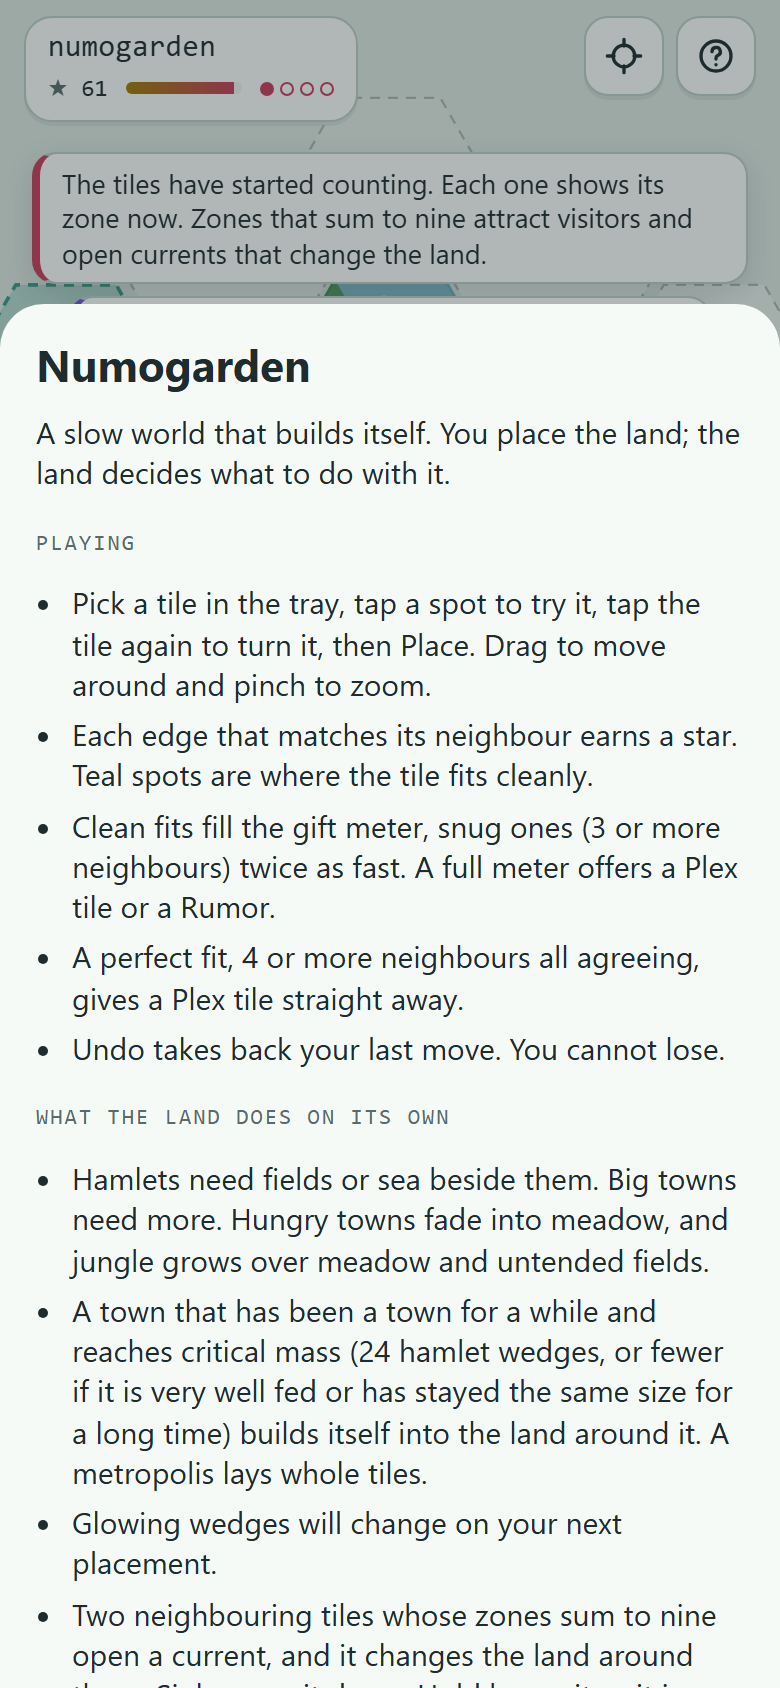
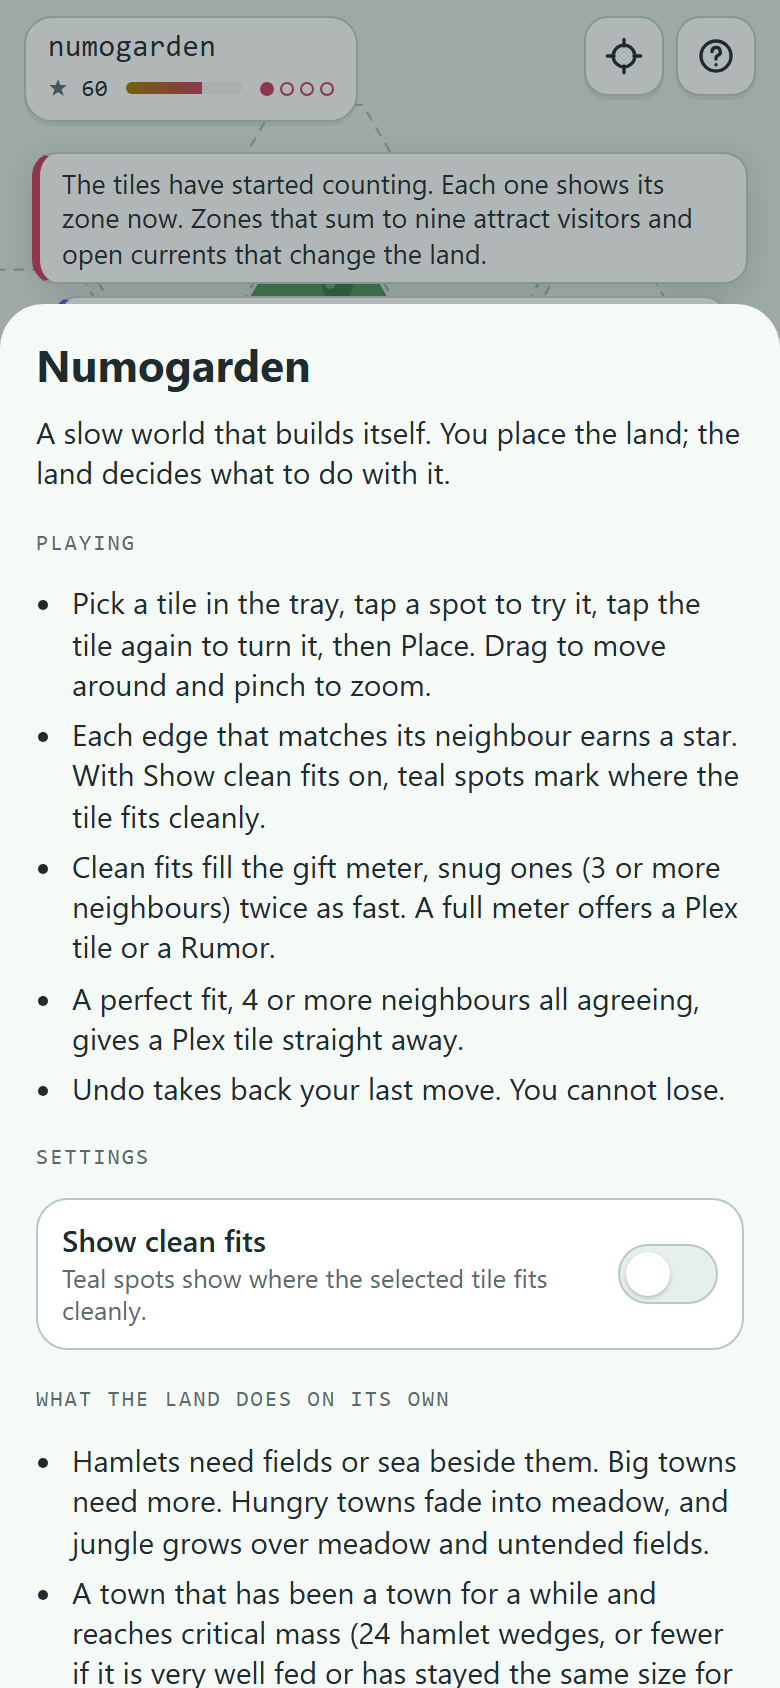
Make the clean-fit highlight a setting, off by default
Teal clean-fit spots and the hint's "Teal spots fit cleanly" now show
only with Show clean fits on, a switch in the info sheet. Settings are
saved per device under numogarden-prefs, apart from the world, so New
world keeps them. Renderer only; src/sim.js is unchanged. Phone check
passes; the switch is off by default and survives reload and New world.

Claude-Session: https://claude.ai/code/session_01Rqpdc12HTNNbWHYvCNXX71

diff --git a/artifact/numogarden.html b/artifact/numogarden.html
@@ -151,7 +151,15 @@ button:focus-visible { outline: 2px solid var(--plex); outline-offset: 2px; }
 .row { display: flex; gap: 8px; flex-wrap: wrap; }
 .row .btn { flex: 1 1 140px; }
 .credit { font-family: var(--mono); font-size: 12px; color: var(--muted); }
-@media (prefers-reduced-motion: reduce) { .gift-chip, .toast, .sheet { animation: none; } .slot { transition: none; } }
+/* a setting is one tappable row: words on the left, a switch on the right */
+.setting { width: 100%; min-height: 56px; display: flex; align-items: center; justify-content: space-between; gap: 14px; text-align: left; border: 1.5px solid var(--rule); background: #FFFFFF; border-radius: 16px; padding: 10px 12px; cursor: pointer; }
+.setting b { display: block; font-size: 15px; font-weight: 600; }
+.setting .note { display: block; line-height: 1.3; }
+.switch { flex: none; position: relative; width: 50px; height: 30px; box-sizing: border-box; border-radius: 999px; border: 1px solid var(--rule); background: var(--well); transition: background .2s, border-color .2s; }
+.switch::after { content: ''; position: absolute; top: 3px; left: 3px; width: 22px; height: 22px; border-radius: 50%; background: #FFFFFF; box-shadow: 0 1px 2px rgba(30, 43, 47, .25); transition: transform .2s; }
+.setting[aria-checked="true"] .switch { background: var(--fit); border-color: var(--fit); }
+.setting[aria-checked="true"] .switch::after { transform: translateX(20px); }
+@media (prefers-reduced-motion: reduce) { .gift-chip, .toast, .sheet { animation: none; } .slot, .switch, .switch::after { transition: none; } }
 </style>
 
 <div id="app">
@@ -1057,6 +1065,11 @@ const CURRENT_TXT = {
 };
 const ROOFS = ['#E0705A', '#5E8FB0', '#D9A13B', '#C9607A'];
 const STORE = 'numogarden-v1';
+/* settings belong to the device, not the world, so they live apart from the save and survive New world */
+const PREFS = 'numogarden-prefs';
+const prefs = { cleanFits: false };
+try { const p = JSON.parse(localStorage.getItem(PREFS) || 'null'); if (p && typeof p.cleanFits === 'boolean') prefs.cleanFits = p.cleanFits; } catch (e) { /* storage may be unavailable */ }
+function savePrefs() { try { localStorage.setItem(PREFS, JSON.stringify(prefs)); } catch (e) { /* storage may be unavailable */ } }
 
 const $ = id => document.getElementById(id);
 const cv = $('board'), ctx = cv.getContext('2d');
@@ -1285,7 +1298,7 @@ function updateHint() {
       if (st.kind !== 'x') txt += '. Tap the tile to turn it.';
     }
   } else if (ui.mode === 'ferry') txt = 'Ferry: put this tile on any spot within 3 hexes of land.';
-  else txt = state.turn < 8 ? 'Tap a glowing spot to try the tile there. Teal spots fit cleanly.' : 'Pick a spot. Teal spots fit cleanly.';
+  else txt = (state.turn < 8 ? 'Tap a glowing spot to try the tile there.' : 'Pick a spot.') + (prefs.cleanFits ? ' Teal spots fit cleanly.' : '');
   hintEl.textContent = txt;
 }
 
@@ -1408,11 +1421,16 @@ function openInfo() {
     <h3>Playing</h3>
     <ul>
       <li>Pick a tile in the tray, tap a spot to try it, tap the tile again to turn it, then Place. Drag to move around and pinch to zoom.</li>
-      <li>Each edge that matches its neighbour earns a star. Teal spots are where the tile fits cleanly.</li>
+      <li>Each edge that matches its neighbour earns a star. With Show clean fits on, teal spots mark where the tile fits cleanly.</li>
       <li>Clean fits fill the gift meter, snug ones (3 or more neighbours) twice as fast. A full meter offers a Plex tile or a Rumor.</li>
       <li>A perfect fit, 4 or more neighbours all agreeing, gives a Plex tile straight away.</li>
       <li>Undo takes back your last move. You cannot lose.</li>
     </ul>
+    <h3>Settings</h3>
+    <button type="button" class="setting" id="cleanSw" role="switch" aria-checked="${prefs.cleanFits}" aria-labelledby="cleanLbl" aria-describedby="cleanNote">
+      <span><b id="cleanLbl">Show clean fits</b><span class="note" id="cleanNote">Teal spots show where the selected tile fits cleanly.</span></span>
+      <span class="switch" aria-hidden="true"></span>
+    </button>
     <h3>What the land does on its own</h3>
     <ul>
       <li>Hamlets need fields or sea beside them. Big towns need more. Hungry towns fade into meadow, and jungle grows over meadow and untended fields.</li>
@@ -1437,6 +1455,12 @@ function openInfo() {
     </div>
     <p class="credit">Built by SVL with Claude, October 2026. Demon names, zone pairs and descriptions come from <a href="https://claude.ai/artifact/1u4CmPQFRszxxz2beVf3Ae" target="_blank" rel="noopener">Numogram Lab</a>.</p>`);
   $('closeS').addEventListener('click', closeSheet);
+  const sw = $('cleanSw');
+  sw.addEventListener('click', () => {
+    prefs.cleanFits = !prefs.cleanFits; savePrefs();
+    sw.setAttribute('aria-checked', String(prefs.cleanFits));
+    updateHint(); ui.dirty = true;
+  });
   const nw = $('newW');
   nw.addEventListener('click', () => {
     if (nw.dataset.armed) { closeSheet(); newWorld(); return; }
@@ -1651,7 +1675,7 @@ function drawValid() {
   for (const v of ui.valid) {
     if (ui.ghost && ui.ghost.q === v.q && ui.ghost.r === v.r) continue;
     const c = hexCenter(v.q, v.r); setT(c[0], c[1]);
-    const clean = v.n >= 2 && v.m === v.n;
+    const clean = prefs.cleanFits && v.n >= 2 && v.m === v.n; // teal only when the player asked for it
     hexPath(0.93);
     ctx.fillStyle = clean ? 'rgba(31,156,132,.22)' : v.m > 0 ? 'rgba(255,255,255,.3)' : 'rgba(255,255,255,.14)';
     ctx.fill();
@@ -1919,7 +1943,7 @@ function start(data) {
   try { window.claude && window.claude.hot && window.claude.hot.snapshot && window.claude.hot.snapshot(() => ({ state: JSON.stringify(state), cam })); } catch (e) { /* not in a viewer */ }
   if (document.fonts && document.fonts.ready) document.fonts.ready.then(() => { renderTray(); ui.dirty = true; });
   requestAnimationFrame(loop);
-  window.__numo = { get state() { return state; }, get cam() { return cam; }, get ui() { return ui; }, toScreen, hexCenter };
+  window.__numo = { get state() { return state; }, get cam() { return cam; }, get ui() { return ui; }, prefs, toScreen, hexCenter };
 }
 if (window.claude && window.claude.hot && window.claude.hot.ready) window.claude.hot.ready(start);
 else start((window.claude && window.claude.hot && window.claude.hot.data) || {});

diff --git a/docs/index.html b/docs/index.html
@@ -151,7 +151,15 @@ button:focus-visible { outline: 2px solid var(--plex); outline-offset: 2px; }
 .row { display: flex; gap: 8px; flex-wrap: wrap; }
 .row .btn { flex: 1 1 140px; }
 .credit { font-family: var(--mono); font-size: 12px; color: var(--muted); }
-@media (prefers-reduced-motion: reduce) { .gift-chip, .toast, .sheet { animation: none; } .slot { transition: none; } }
+/* a setting is one tappable row: words on the left, a switch on the right */
+.setting { width: 100%; min-height: 56px; display: flex; align-items: center; justify-content: space-between; gap: 14px; text-align: left; border: 1.5px solid var(--rule); background: #FFFFFF; border-radius: 16px; padding: 10px 12px; cursor: pointer; }
+.setting b { display: block; font-size: 15px; font-weight: 600; }
+.setting .note { display: block; line-height: 1.3; }
+.switch { flex: none; position: relative; width: 50px; height: 30px; box-sizing: border-box; border-radius: 999px; border: 1px solid var(--rule); background: var(--well); transition: background .2s, border-color .2s; }
+.switch::after { content: ''; position: absolute; top: 3px; left: 3px; width: 22px; height: 22px; border-radius: 50%; background: #FFFFFF; box-shadow: 0 1px 2px rgba(30, 43, 47, .25); transition: transform .2s; }
+.setting[aria-checked="true"] .switch { background: var(--fit); border-color: var(--fit); }
+.setting[aria-checked="true"] .switch::after { transform: translateX(20px); }
+@media (prefers-reduced-motion: reduce) { .gift-chip, .toast, .sheet { animation: none; } .slot, .switch, .switch::after { transition: none; } }
 </style>
 
 <div id="app">
@@ -1057,6 +1065,11 @@ const CURRENT_TXT = {
 };
 const ROOFS = ['#E0705A', '#5E8FB0', '#D9A13B', '#C9607A'];
 const STORE = 'numogarden-v1';
+/* settings belong to the device, not the world, so they live apart from the save and survive New world */
+const PREFS = 'numogarden-prefs';
+const prefs = { cleanFits: false };
+try { const p = JSON.parse(localStorage.getItem(PREFS) || 'null'); if (p && typeof p.cleanFits === 'boolean') prefs.cleanFits = p.cleanFits; } catch (e) { /* storage may be unavailable */ }
+function savePrefs() { try { localStorage.setItem(PREFS, JSON.stringify(prefs)); } catch (e) { /* storage may be unavailable */ } }
 
 const $ = id => document.getElementById(id);
 const cv = $('board'), ctx = cv.getContext('2d');
@@ -1285,7 +1298,7 @@ function updateHint() {
       if (st.kind !== 'x') txt += '. Tap the tile to turn it.';
     }
   } else if (ui.mode === 'ferry') txt = 'Ferry: put this tile on any spot within 3 hexes of land.';
-  else txt = state.turn < 8 ? 'Tap a glowing spot to try the tile there. Teal spots fit cleanly.' : 'Pick a spot. Teal spots fit cleanly.';
+  else txt = (state.turn < 8 ? 'Tap a glowing spot to try the tile there.' : 'Pick a spot.') + (prefs.cleanFits ? ' Teal spots fit cleanly.' : '');
   hintEl.textContent = txt;
 }
 
@@ -1408,11 +1421,16 @@ function openInfo() {
     <h3>Playing</h3>
     <ul>
       <li>Pick a tile in the tray, tap a spot to try it, tap the tile again to turn it, then Place. Drag to move around and pinch to zoom.</li>
-      <li>Each edge that matches its neighbour earns a star. Teal spots are where the tile fits cleanly.</li>
+      <li>Each edge that matches its neighbour earns a star. With Show clean fits on, teal spots mark where the tile fits cleanly.</li>
       <li>Clean fits fill the gift meter, snug ones (3 or more neighbours) twice as fast. A full meter offers a Plex tile or a Rumor.</li>
       <li>A perfect fit, 4 or more neighbours all agreeing, gives a Plex tile straight away.</li>
       <li>Undo takes back your last move. You cannot lose.</li>
     </ul>
+    <h3>Settings</h3>
+    <button type="button" class="setting" id="cleanSw" role="switch" aria-checked="${prefs.cleanFits}" aria-labelledby="cleanLbl" aria-describedby="cleanNote">
+      <span><b id="cleanLbl">Show clean fits</b><span class="note" id="cleanNote">Teal spots show where the selected tile fits cleanly.</span></span>
+      <span class="switch" aria-hidden="true"></span>
+    </button>
     <h3>What the land does on its own</h3>
     <ul>
       <li>Hamlets need fields or sea beside them. Big towns need more. Hungry towns fade into meadow, and jungle grows over meadow and untended fields.</li>
@@ -1437,6 +1455,12 @@ function openInfo() {
     </div>
     <p class="credit">Built by SVL with Claude, October 2026. Demon names, zone pairs and descriptions come from <a href="https://claude.ai/artifact/1u4CmPQFRszxxz2beVf3Ae" target="_blank" rel="noopener">Numogram Lab</a>.</p>`);
   $('closeS').addEventListener('click', closeSheet);
+  const sw = $('cleanSw');
+  sw.addEventListener('click', () => {
+    prefs.cleanFits = !prefs.cleanFits; savePrefs();
+    sw.setAttribute('aria-checked', String(prefs.cleanFits));
+    updateHint(); ui.dirty = true;
+  });
   const nw = $('newW');
   nw.addEventListener('click', () => {
     if (nw.dataset.armed) { closeSheet(); newWorld(); return; }
@@ -1651,7 +1675,7 @@ function drawValid() {
   for (const v of ui.valid) {
     if (ui.ghost && ui.ghost.q === v.q && ui.ghost.r === v.r) continue;
     const c = hexCenter(v.q, v.r); setT(c[0], c[1]);
-    const clean = v.n >= 2 && v.m === v.n;
+    const clean = prefs.cleanFits && v.n >= 2 && v.m === v.n; // teal only when the player asked for it
     hexPath(0.93);
     ctx.fillStyle = clean ? 'rgba(31,156,132,.22)' : v.m > 0 ? 'rgba(255,255,255,.3)' : 'rgba(255,255,255,.14)';
     ctx.fill();
@@ -1919,7 +1943,7 @@ function start(data) {
   try { window.claude && window.claude.hot && window.claude.hot.snapshot && window.claude.hot.snapshot(() => ({ state: JSON.stringify(state), cam })); } catch (e) { /* not in a viewer */ }
   if (document.fonts && document.fonts.ready) document.fonts.ready.then(() => { renderTray(); ui.dirty = true; });
   requestAnimationFrame(loop);
-  window.__numo = { get state() { return state; }, get cam() { return cam; }, get ui() { return ui; }, toScreen, hexCenter };
+  window.__numo = { get state() { return state; }, get cam() { return cam; }, get ui() { return ui; }, prefs, toScreen, hexCenter };
 }
 if (window.claude && window.claude.hot && window.claude.hot.ready) window.claude.hot.ready(start);
 else start((window.claude && window.claude.hot && window.claude.hot.data) || {});

diff --git a/src/game.html b/src/game.html
@@ -151,7 +151,15 @@ button:focus-visible { outline: 2px solid var(--plex); outline-offset: 2px; }
 .row { display: flex; gap: 8px; flex-wrap: wrap; }
 .row .btn { flex: 1 1 140px; }
 .credit { font-family: var(--mono); font-size: 12px; color: var(--muted); }
-@media (prefers-reduced-motion: reduce) { .gift-chip, .toast, .sheet { animation: none; } .slot { transition: none; } }
+/* a setting is one tappable row: words on the left, a switch on the right */
+.setting { width: 100%; min-height: 56px; display: flex; align-items: center; justify-content: space-between; gap: 14px; text-align: left; border: 1.5px solid var(--rule); background: #FFFFFF; border-radius: 16px; padding: 10px 12px; cursor: pointer; }
+.setting b { display: block; font-size: 15px; font-weight: 600; }
+.setting .note { display: block; line-height: 1.3; }
+.switch { flex: none; position: relative; width: 50px; height: 30px; box-sizing: border-box; border-radius: 999px; border: 1px solid var(--rule); background: var(--well); transition: background .2s, border-color .2s; }
+.switch::after { content: ''; position: absolute; top: 3px; left: 3px; width: 22px; height: 22px; border-radius: 50%; background: #FFFFFF; box-shadow: 0 1px 2px rgba(30, 43, 47, .25); transition: transform .2s; }
+.setting[aria-checked="true"] .switch { background: var(--fit); border-color: var(--fit); }
+.setting[aria-checked="true"] .switch::after { transform: translateX(20px); }
+@media (prefers-reduced-motion: reduce) { .gift-chip, .toast, .sheet { animation: none; } .slot, .switch, .switch::after { transition: none; } }
 </style>
 
 <div id="app">
@@ -223,6 +231,11 @@ const CURRENT_TXT = {
 };
 const ROOFS = ['#E0705A', '#5E8FB0', '#D9A13B', '#C9607A'];
 const STORE = 'numogarden-v1';
+/* settings belong to the device, not the world, so they live apart from the save and survive New world */
+const PREFS = 'numogarden-prefs';
+const prefs = { cleanFits: false };
+try { const p = JSON.parse(localStorage.getItem(PREFS) || 'null'); if (p && typeof p.cleanFits === 'boolean') prefs.cleanFits = p.cleanFits; } catch (e) { /* storage may be unavailable */ }
+function savePrefs() { try { localStorage.setItem(PREFS, JSON.stringify(prefs)); } catch (e) { /* storage may be unavailable */ } }
 
 const $ = id => document.getElementById(id);
 const cv = $('board'), ctx = cv.getContext('2d');
@@ -451,7 +464,7 @@ function updateHint() {
       if (st.kind !== 'x') txt += '. Tap the tile to turn it.';
     }
   } else if (ui.mode === 'ferry') txt = 'Ferry: put this tile on any spot within 3 hexes of land.';
-  else txt = state.turn < 8 ? 'Tap a glowing spot to try the tile there. Teal spots fit cleanly.' : 'Pick a spot. Teal spots fit cleanly.';
+  else txt = (state.turn < 8 ? 'Tap a glowing spot to try the tile there.' : 'Pick a spot.') + (prefs.cleanFits ? ' Teal spots fit cleanly.' : '');
   hintEl.textContent = txt;
 }
 
@@ -574,11 +587,16 @@ function openInfo() {
     <h3>Playing</h3>
     <ul>
       <li>Pick a tile in the tray, tap a spot to try it, tap the tile again to turn it, then Place. Drag to move around and pinch to zoom.</li>
-      <li>Each edge that matches its neighbour earns a star. Teal spots are where the tile fits cleanly.</li>
+      <li>Each edge that matches its neighbour earns a star. With Show clean fits on, teal spots mark where the tile fits cleanly.</li>
       <li>Clean fits fill the gift meter, snug ones (3 or more neighbours) twice as fast. A full meter offers a Plex tile or a Rumor.</li>
       <li>A perfect fit, 4 or more neighbours all agreeing, gives a Plex tile straight away.</li>
       <li>Undo takes back your last move. You cannot lose.</li>
     </ul>
+    <h3>Settings</h3>
+    <button type="button" class="setting" id="cleanSw" role="switch" aria-checked="${prefs.cleanFits}" aria-labelledby="cleanLbl" aria-describedby="cleanNote">
+      <span><b id="cleanLbl">Show clean fits</b><span class="note" id="cleanNote">Teal spots show where the selected tile fits cleanly.</span></span>
+      <span class="switch" aria-hidden="true"></span>
+    </button>
     <h3>What the land does on its own</h3>
     <ul>
       <li>Hamlets need fields or sea beside them. Big towns need more. Hungry towns fade into meadow, and jungle grows over meadow and untended fields.</li>
@@ -603,6 +621,12 @@ function openInfo() {
     </div>
     <p class="credit">Built by SVL with Claude, October 2026. Demon names, zone pairs and descriptions come from <a href="https://claude.ai/artifact/1u4CmPQFRszxxz2beVf3Ae" target="_blank" rel="noopener">Numogram Lab</a>.</p>`);
   $('closeS').addEventListener('click', closeSheet);
+  const sw = $('cleanSw');
+  sw.addEventListener('click', () => {
+    prefs.cleanFits = !prefs.cleanFits; savePrefs();
+    sw.setAttribute('aria-checked', String(prefs.cleanFits));
+    updateHint(); ui.dirty = true;
+  });
   const nw = $('newW');
   nw.addEventListener('click', () => {
     if (nw.dataset.armed) { closeSheet(); newWorld(); return; }
@@ -817,7 +841,7 @@ function drawValid() {
   for (const v of ui.valid) {
     if (ui.ghost && ui.ghost.q === v.q && ui.ghost.r === v.r) continue;
     const c = hexCenter(v.q, v.r); setT(c[0], c[1]);
-    const clean = v.n >= 2 && v.m === v.n;
+    const clean = prefs.cleanFits && v.n >= 2 && v.m === v.n; // teal only when the player asked for it
     hexPath(0.93);
     ctx.fillStyle = clean ? 'rgba(31,156,132,.22)' : v.m > 0 ? 'rgba(255,255,255,.3)' : 'rgba(255,255,255,.14)';
     ctx.fill();
@@ -1085,7 +1109,7 @@ function start(data) {
   try { window.claude && window.claude.hot && window.claude.hot.snapshot && window.claude.hot.snapshot(() => ({ state: JSON.stringify(state), cam })); } catch (e) { /* not in a viewer */ }
   if (document.fonts && document.fonts.ready) document.fonts.ready.then(() => { renderTray(); ui.dirty = true; });
   requestAnimationFrame(loop);
-  window.__numo = { get state() { return state; }, get cam() { return cam; }, get ui() { return ui; }, toScreen, hexCenter };
+  window.__numo = { get state() { return state; }, get cam() { return cam; }, get ui() { return ui; }, prefs, toScreen, hexCenter };
 }
 if (window.claude && window.claude.hot && window.claude.hot.ready) window.claude.hot.ready(start);
 else start((window.claude && window.claude.hot && window.claude.hot.data) || {});

diff --git a/CLAUDE.md b/CLAUDE.md
@@ -106,11 +106,13 @@ Nothing can be scheduled on a held tile, so Hold also blocks Sink and Plex there
 3. Houses grow eyes that follow your finger; the ground dusks; eyes in deep jungle.
 4. Night, lit windows, and the currents glow bright. A current is drawn as animated dashes between its pair, running from the higher zone to the lower, coloured by the region of its difference, and it fades while it lingers.
 
-**Page.** One-screen canvas game. HUD (wordmark, stars, gift meter, weirdness pips), tray (offers plus gifts), tools (Undo, Turn, Place, Build, Ferry), sheets (gift choice, tile inspector, lemur card, info with chronicle and New world). Controls:
+**Page.** One-screen canvas game. HUD (wordmark, stars, gift meter, weirdness pips), tray (offers plus gifts), tools (Undo, Turn, Place, Build, Ferry), sheets (gift choice, tile inspector, lemur card, info with settings, chronicle and New world). Controls:
 - Tap a spot to preview at the best rotation, tap the preview to turn it, then Place.
 - Drag to pan and pinch to zoom; wheel zoom and keys R, Enter and Z on desktop.
 
 The placement hint names any current a placement would open ("opens a Hold current (7::2)"). The tile inspector lists the currents acting on a tile, with the carrier and whether it is a pair tile or fading. A sheet opened by a board tap ignores scrim clicks for 400 ms, because the tap's own click lands on the new scrim; in v1 that closed the inspector and lemur cards as soon as they opened. A world saved before currents picks them up on load.
+
+Settings sit in the info sheet. **Show clean fits** is off by default: when on, clean-fit spots are drawn in teal and the hint adds "Teal spots fit cleanly." When off, every open spot looks alike except for a lighter fill where at least one edge matches. Settings are saved per device under `numogarden-prefs`, apart from the world, so New world keeps them.
 
 Saved to localStorage under `numogarden-v1` (wrapped in try/catch). Undo is 30 deep in memory. One deliberate light look, no dark theme; it dusks with weirdness instead. Fonts: Major Mono Display (wordmark, zone numerals, demon names, as on the SVL pages), Baloo 2 (UI), IBM Plex Mono (readouts). Honours prefers-reduced-motion.
 
